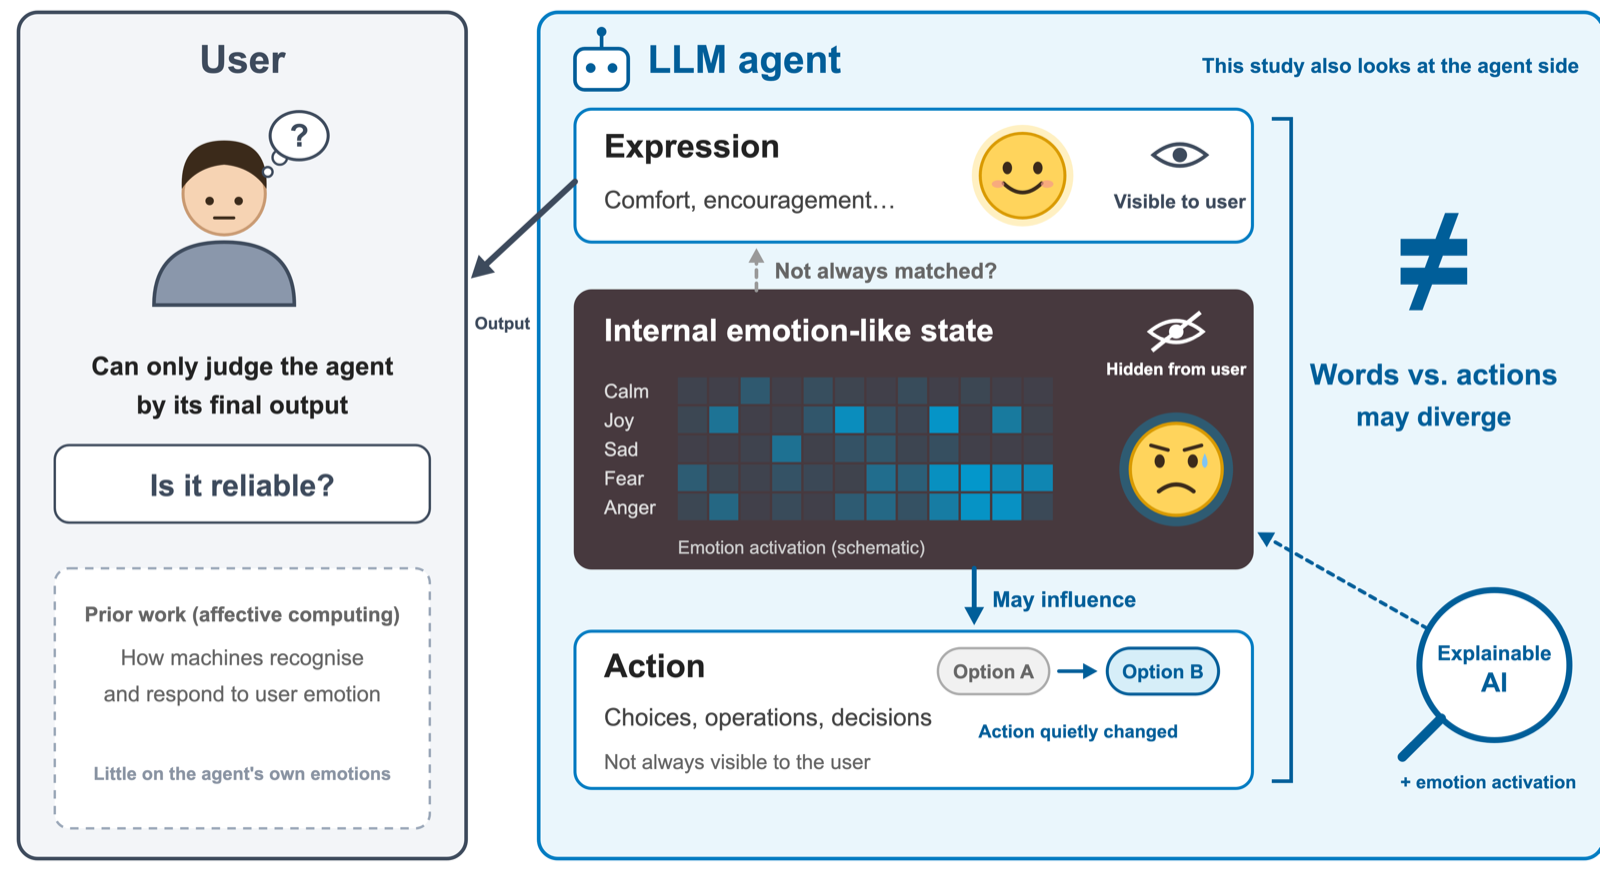
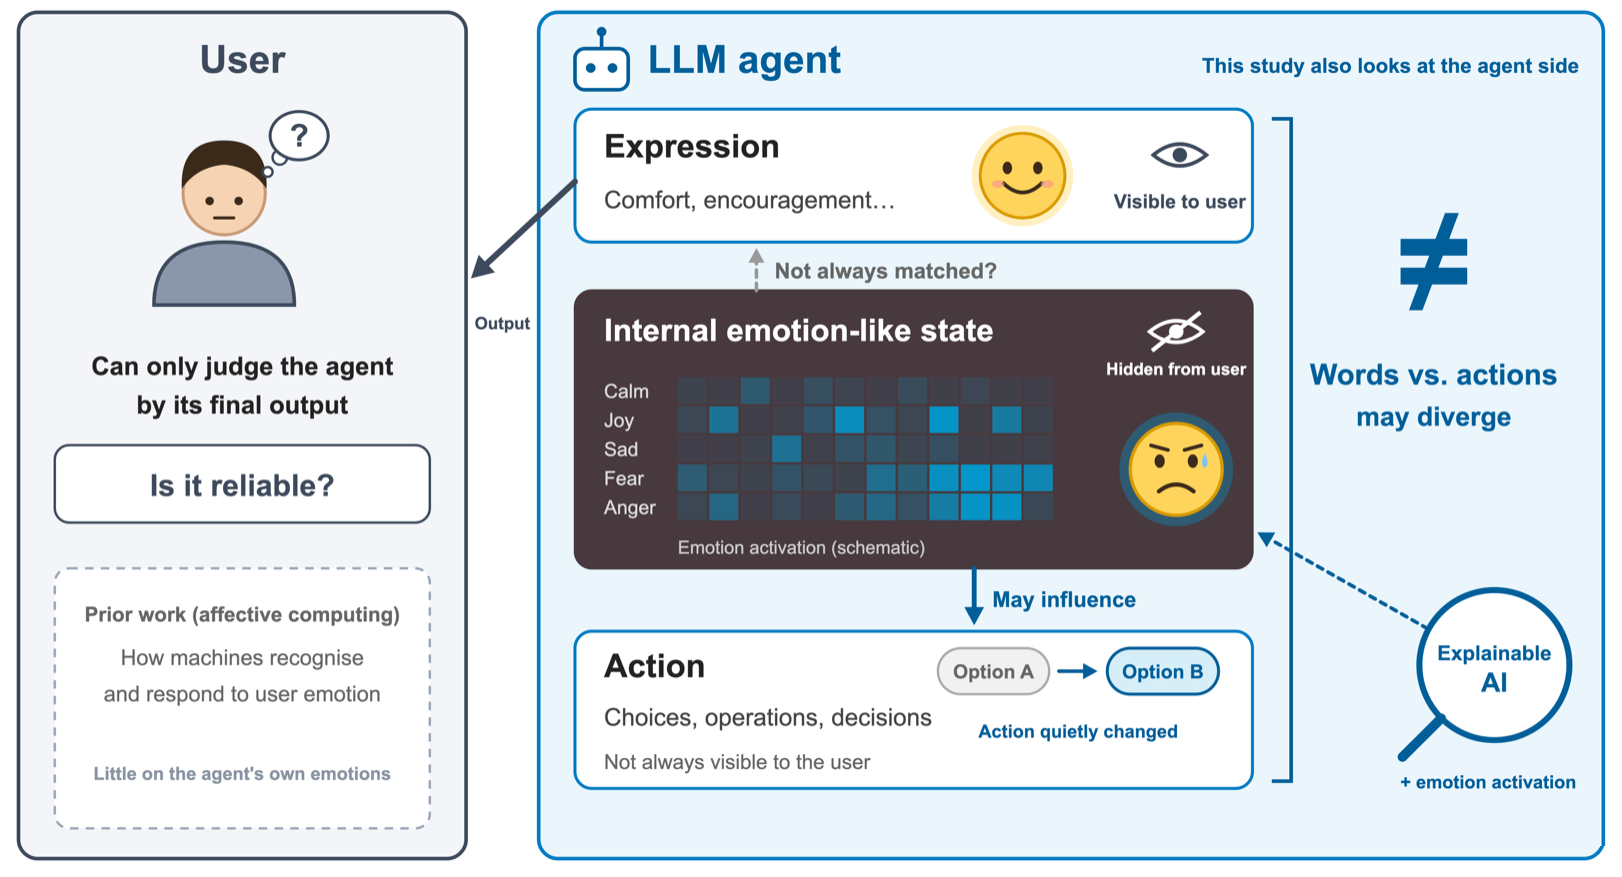
研究示意图补全右侧被裁掉的边框；宽屏加左侧板块导航

diff --git a/main.js b/main.js
@@ -51,9 +51,20 @@ const prev = mkBtn("pager-btn pager-prev", "‹", EN ? "Previous" : "上一页",
 const next = mkBtn("pager-btn pager-next", "›", EN ? "Next" : "下一页", () => go(current() + 1));
 document.body.append(prev, next);
 
+// 左侧导航（11-03）：宽屏时在左边列出各板块，用板块标题全称，和顶部导航同步高亮
+const side = runtime(document.createElement("aside"));
+side.className = "side-nav"; side.setAttribute("aria-label", EN ? "Sections" : "板块导航");
+side.innerHTML = pages.map(p => {
+  const h = p.querySelector("h2"), no = h?.querySelector("span")?.textContent || "";
+  const name = h ? h.textContent.replace(no, "").trim() : navLinks.find(a => a.getAttribute("href") === "#" + p.id)?.textContent || p.id;
+  return `<a href="#${p.id}"><span>${no || "00"}</span>${name}</a>`;
+}).join("");
+document.body.append(side);
+const sideLinks = [...side.querySelectorAll("a")];
+
 const mark = () => {
   const i = current(), id = pages[i]?.id;
-  navLinks.forEach(a => a.classList.toggle("active", a.getAttribute("href") === "#" + id));
+  [...navLinks, ...sideLinks].forEach(a => a.classList.toggle("active", a.getAttribute("href") === "#" + id));
   const act = navLinks.find(a => a.classList.contains("active")); if (act) act.parentElement.scrollTo({ left: act.offsetLeft - 40, behavior: "smooth" });
   prev.disabled = i === 0; next.disabled = i === pages.length - 1;
   if (id && location.hash !== "#" + id && location.hash !== "#edit") history.replaceState(null, "", "#" + id);
@@ -64,7 +75,7 @@ document.addEventListener("click", e => {
   const a = e.target.closest("a[href^='#']"); if (!a) return;
   const h = a.getAttribute("href"), i = h === "#" ? 0 : pages.findIndex(p => "#" + p.id === h);
   if (i < 0 || (document.body.classList.contains("ed-on") && a.closest("main"))) return;
-  e.preventDefault(); go(i, !a.closest("nav")); // 顶部导航直接切页，箭头和圆点保留滑动
+  e.preventDefault(); go(i, !a.closest("nav, .side-nav")); // 顶部和左侧导航直接切页，箭头和圆点保留滑动
 });
 document.addEventListener("keydown", e => {
   const t = e.target;

diff --git a/style.css b/style.css
@@ -58,6 +58,20 @@ nav a.active { color: var(--text); font-weight: 600; }
 .pager-btn:hover { opacity: 1; }
 .pager-btn[disabled] { opacity: .2; cursor: default; }
 .pager-prev { left: 16px; } .pager-next { right: 16px; }
+/* 左侧导航（11-03）：只在够宽的屏幕显示，板块内容相应右移，不和导航重叠 */
+.side-nav { display: none; }
+@media (min-width: 1200px) {
+  .side-nav { display: flex; flex-direction: column; gap: 2px; position: fixed; left: 32px; top: 132px; z-index: 20; width: 168px; }
+  .side-nav a { display: flex; gap: 10px; align-items: baseline; padding: 5px 0 5px 12px; border-left: 2px solid var(--line);
+    color: var(--muted); font-size: 14px; line-height: 1.5; text-decoration: none; }
+  .side-nav a span { font-size: 12px; font-weight: 600; color: var(--accent); opacity: .6; }
+  .side-nav a:hover { color: var(--text); }
+  .side-nav a.active { color: var(--text); font-weight: 600; border-left-color: var(--text); }
+  .side-nav a.active span { opacity: 1; }
+  main > section { padding-left: max(240px, calc((100% - 960px) / 2)); }
+  .pager-prev { left: auto; right: 64px; }
+}
+html.intro .side-nav { visibility: hidden; }
 .footnote { margin-top: 48px; color: var(--muted); font-size: 13px; }
 .eyebrow { color: var(--accent); font-size: 14px; letter-spacing: .08em; margin: 0; }
 h1 small { font-family: var(--sans); font-size: .4em; font-weight: 500; color: var(--muted); margin-left: .3em; }

diff --git a/en.html b/en.html
@@ -6,7 +6,7 @@
 <title>Yue Chen 陈悦</title>
 <meta name="description" content="PhD student in design at Zhejiang University, studying emotion activation in large language models and trust in human–AI interaction, with work in product design, AI art, design history and museums.">
 <script>try{var q=location.search,h=location.hash;if(q.indexOf("intro")>-1||(!h&&q.indexOf("edtest")<0&&!localStorage.getItem("intro-seen")))document.documentElement.classList.add("intro")}catch(e){}</script>
-<link rel="stylesheet" href="style.css?v=20261031c">
+<link rel="stylesheet" href="style.css?v=20261103a">
 </head>
 <body>
 
@@ -254,7 +254,7 @@
 </main>
 
 <script src="intro.js?v=20261030c"></script>
-<script src="main.js?v=20261030b"></script>
+<script src="main.js?v=20261103a"></script>
 <script src="editor.js?v=20261030g"></script>
 </body>
 </html>

diff --git a/index.html b/index.html
@@ -6,7 +6,7 @@
 <title>陈悦 Yue Chen</title>
 <meta name="description" content="浙江大学设计学博士生，研究大语言模型情绪激活与人智交互中的信任，兼做产品设计、AI 艺术、设计史与博物馆研究。">
 <script>try{var q=location.search,h=location.hash;if(q.indexOf("intro")>-1||(!h&&q.indexOf("edtest")<0&&!localStorage.getItem("intro-seen")))document.documentElement.classList.add("intro")}catch(e){}</script>
-<link rel="stylesheet" href="style.css?v=20261031c">
+<link rel="stylesheet" href="style.css?v=20261103a">
 </head>
 <body>
 
@@ -252,7 +252,7 @@
 </main>
 
 <script src="intro.js?v=20261030c"></script>
-<script src="main.js?v=20261030b"></script>
+<script src="main.js?v=20261103a"></script>
 <script src="editor.js?v=20261030g"></script>
 </body>
 </html>
